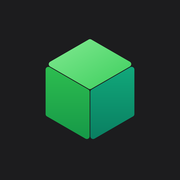
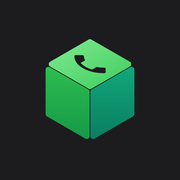
Иконка: трубка телефона на верхней грани куба (версия 24) (#19)
Claude-Session: https://claude.ai/code/session_01NksUZ4fHviJTpt4Aa6ovyi

Changed region(s): [[0.3889, 0.3056, 0.6111, 0.4167]]

diff --git a/index.html b/index.html
@@ -11,8 +11,8 @@
 <meta name="apple-mobile-web-app-status-bar-style" content="black-translucent">
 <meta name="apple-mobile-web-app-title" content="SBERCUBE">
 <link rel="manifest" href="manifest.webmanifest">
-<link rel="apple-touch-icon" href="icon-180.png?v=6">
-<link rel="icon" href="icon-192.png?v=6">
+<link rel="apple-touch-icon" href="icon-180.png?v=7">
+<link rel="icon" href="icon-192.png?v=7">
 <title>SBERCUBE</title>
 <script>try { const th = localStorage.getItem("theme"); if (th === "light") document.documentElement.classList.add("light"); } catch (e) {}</script>
 <style>
@@ -401,7 +401,7 @@
   <div class="mrow"><span>Тема</span><div class="seg glass"><button class="chip" data-theme="dark"><i data-ic="moon"></i> Тёмная</button><button class="chip" data-theme="light"><i data-ic="sun"></i> Светлая</button></div></div>
   <button class="pill" id="ecoBtn"><i data-ic="battery"></i> Экономия батареи: выкл</button>
   <button class="pill" id="reset"><i data-ic="trash"></i> Сбросить квадраты</button>
-  <small style="color:var(--muted);text-align:center">Версия 23</small>
+  <small style="color:var(--muted);text-align:center">Версия 24</small>
 </div>
 </div>
 <div id="selTools"><div id="hint"></div></div>

diff --git a/sw.js b/sw.js
@@ -1,5 +1,5 @@
 // Сначала сеть (чтобы приходили обновления), без интернета — из кэша телефона
-const CACHE = "zvonki-v35";
+const CACHE = "zvonki-v36";
 const FILES = ["./", "./index.html", "./manifest.webmanifest", "./icon-180.png", "./icon-192.png", "./icon-512.png", "./icon-maskable-512.png"];
 self.addEventListener("install", e => { e.waitUntil(caches.open(CACHE).then(c => c.addAll(FILES)).then(() => self.skipWaiting())); });
 self.addEventListener("activate", e => { e.waitUntil(caches.keys().then(ks => Promise.all(ks.filter(k => k !== CACHE).map(k => caches.delete(k)))).then(() => self.clients.claim())); });
